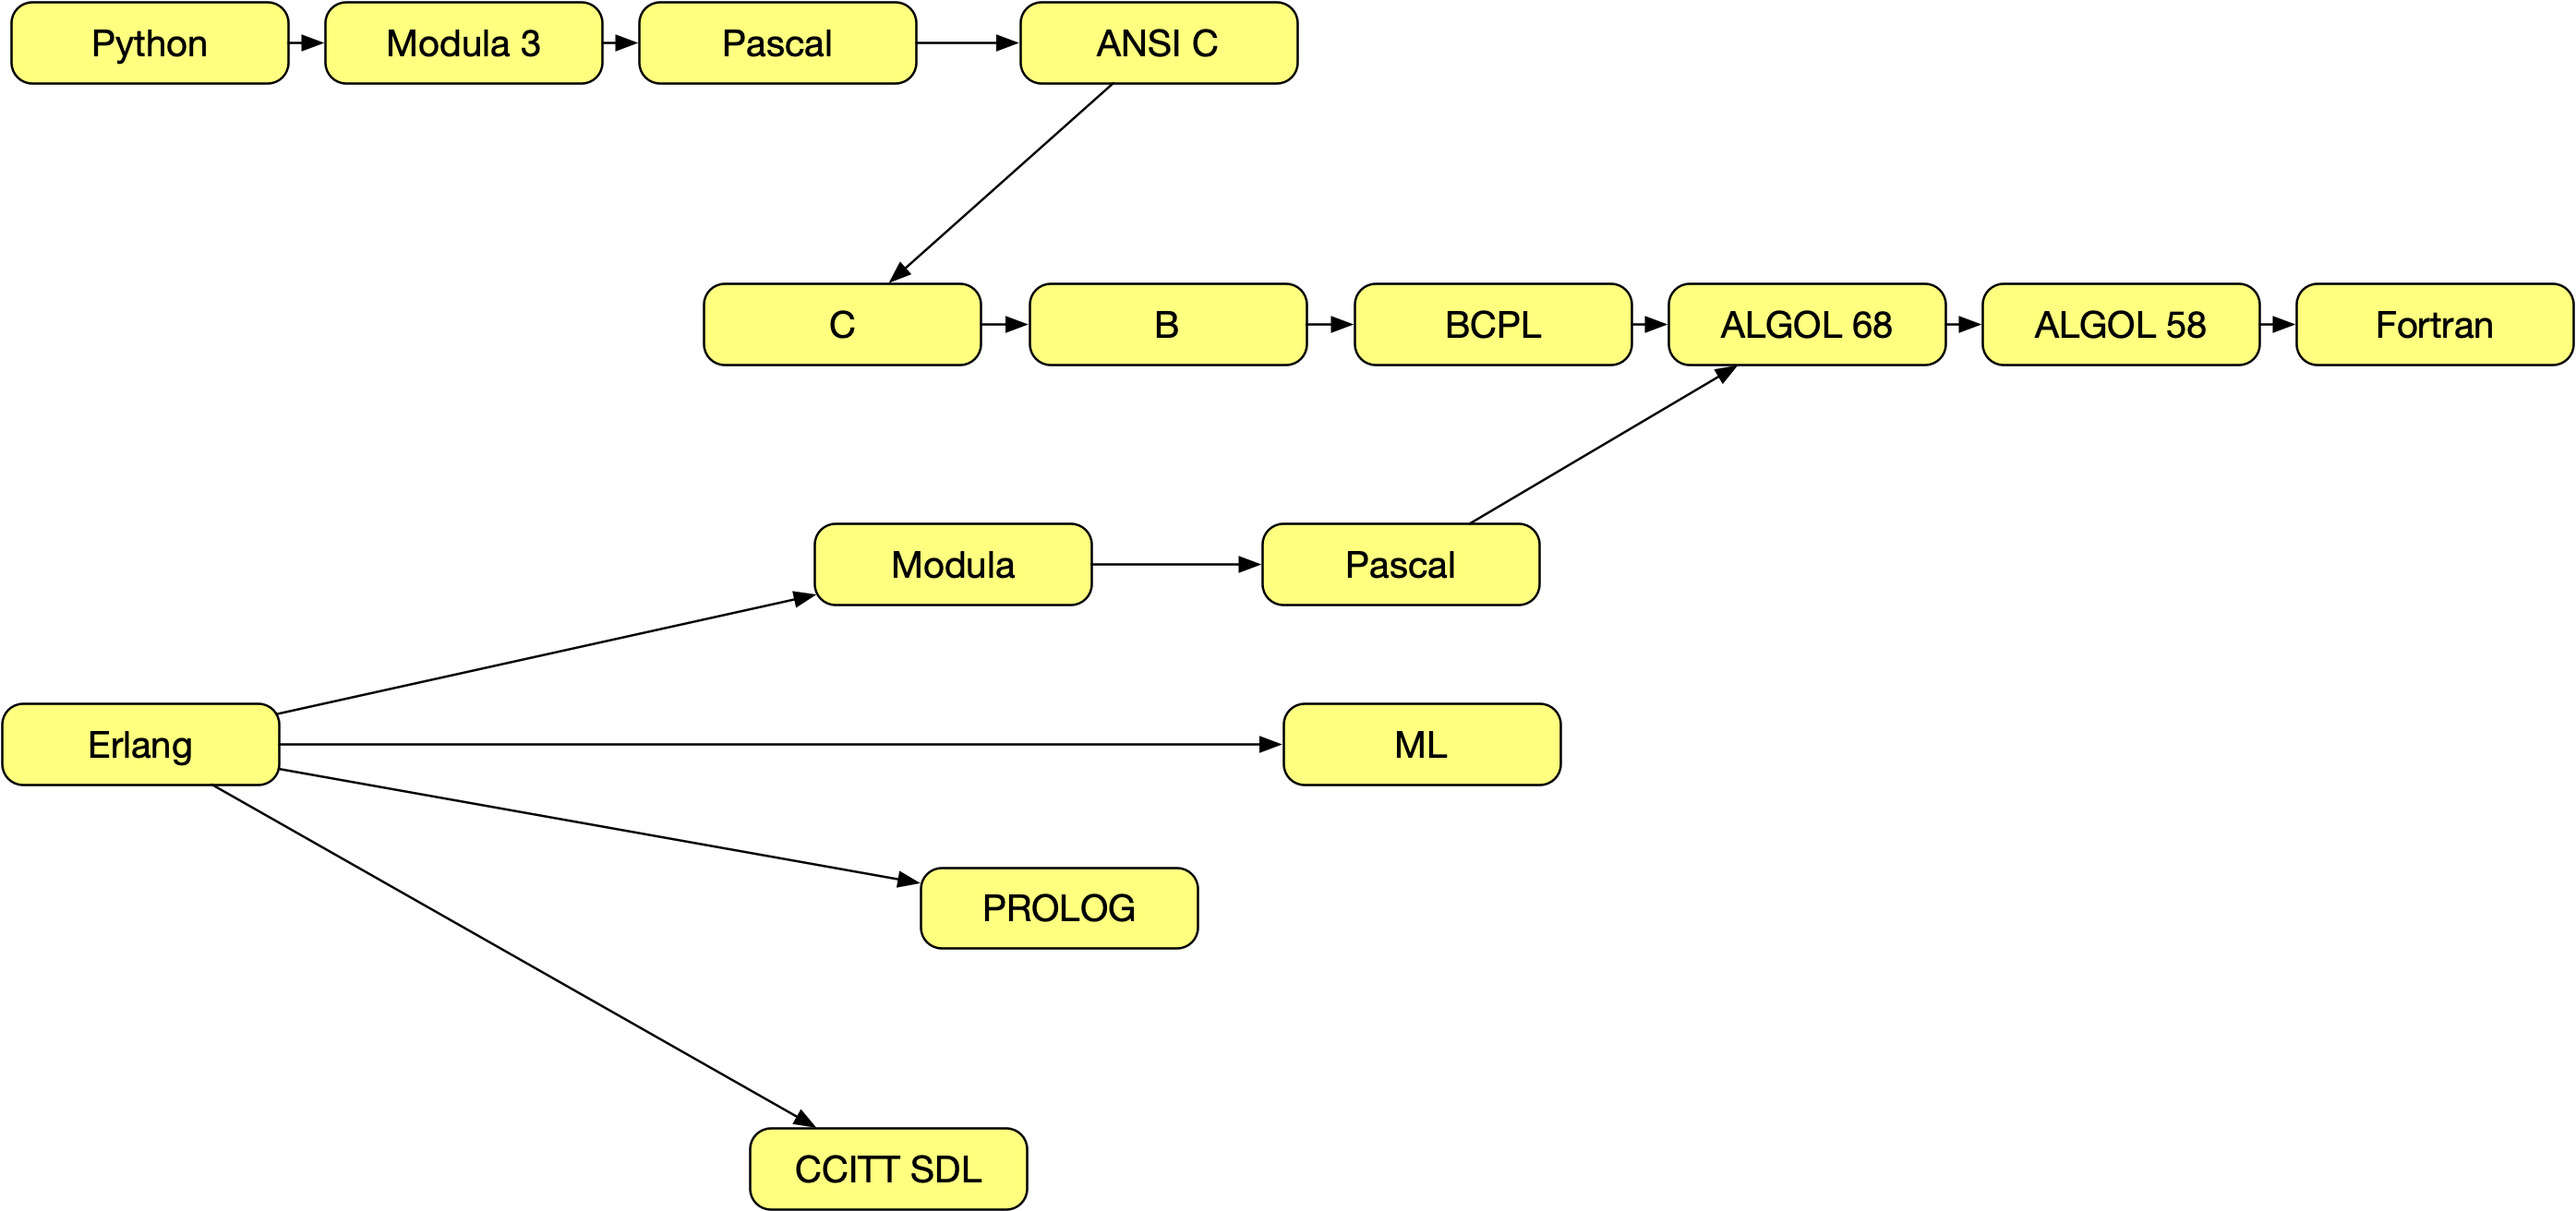
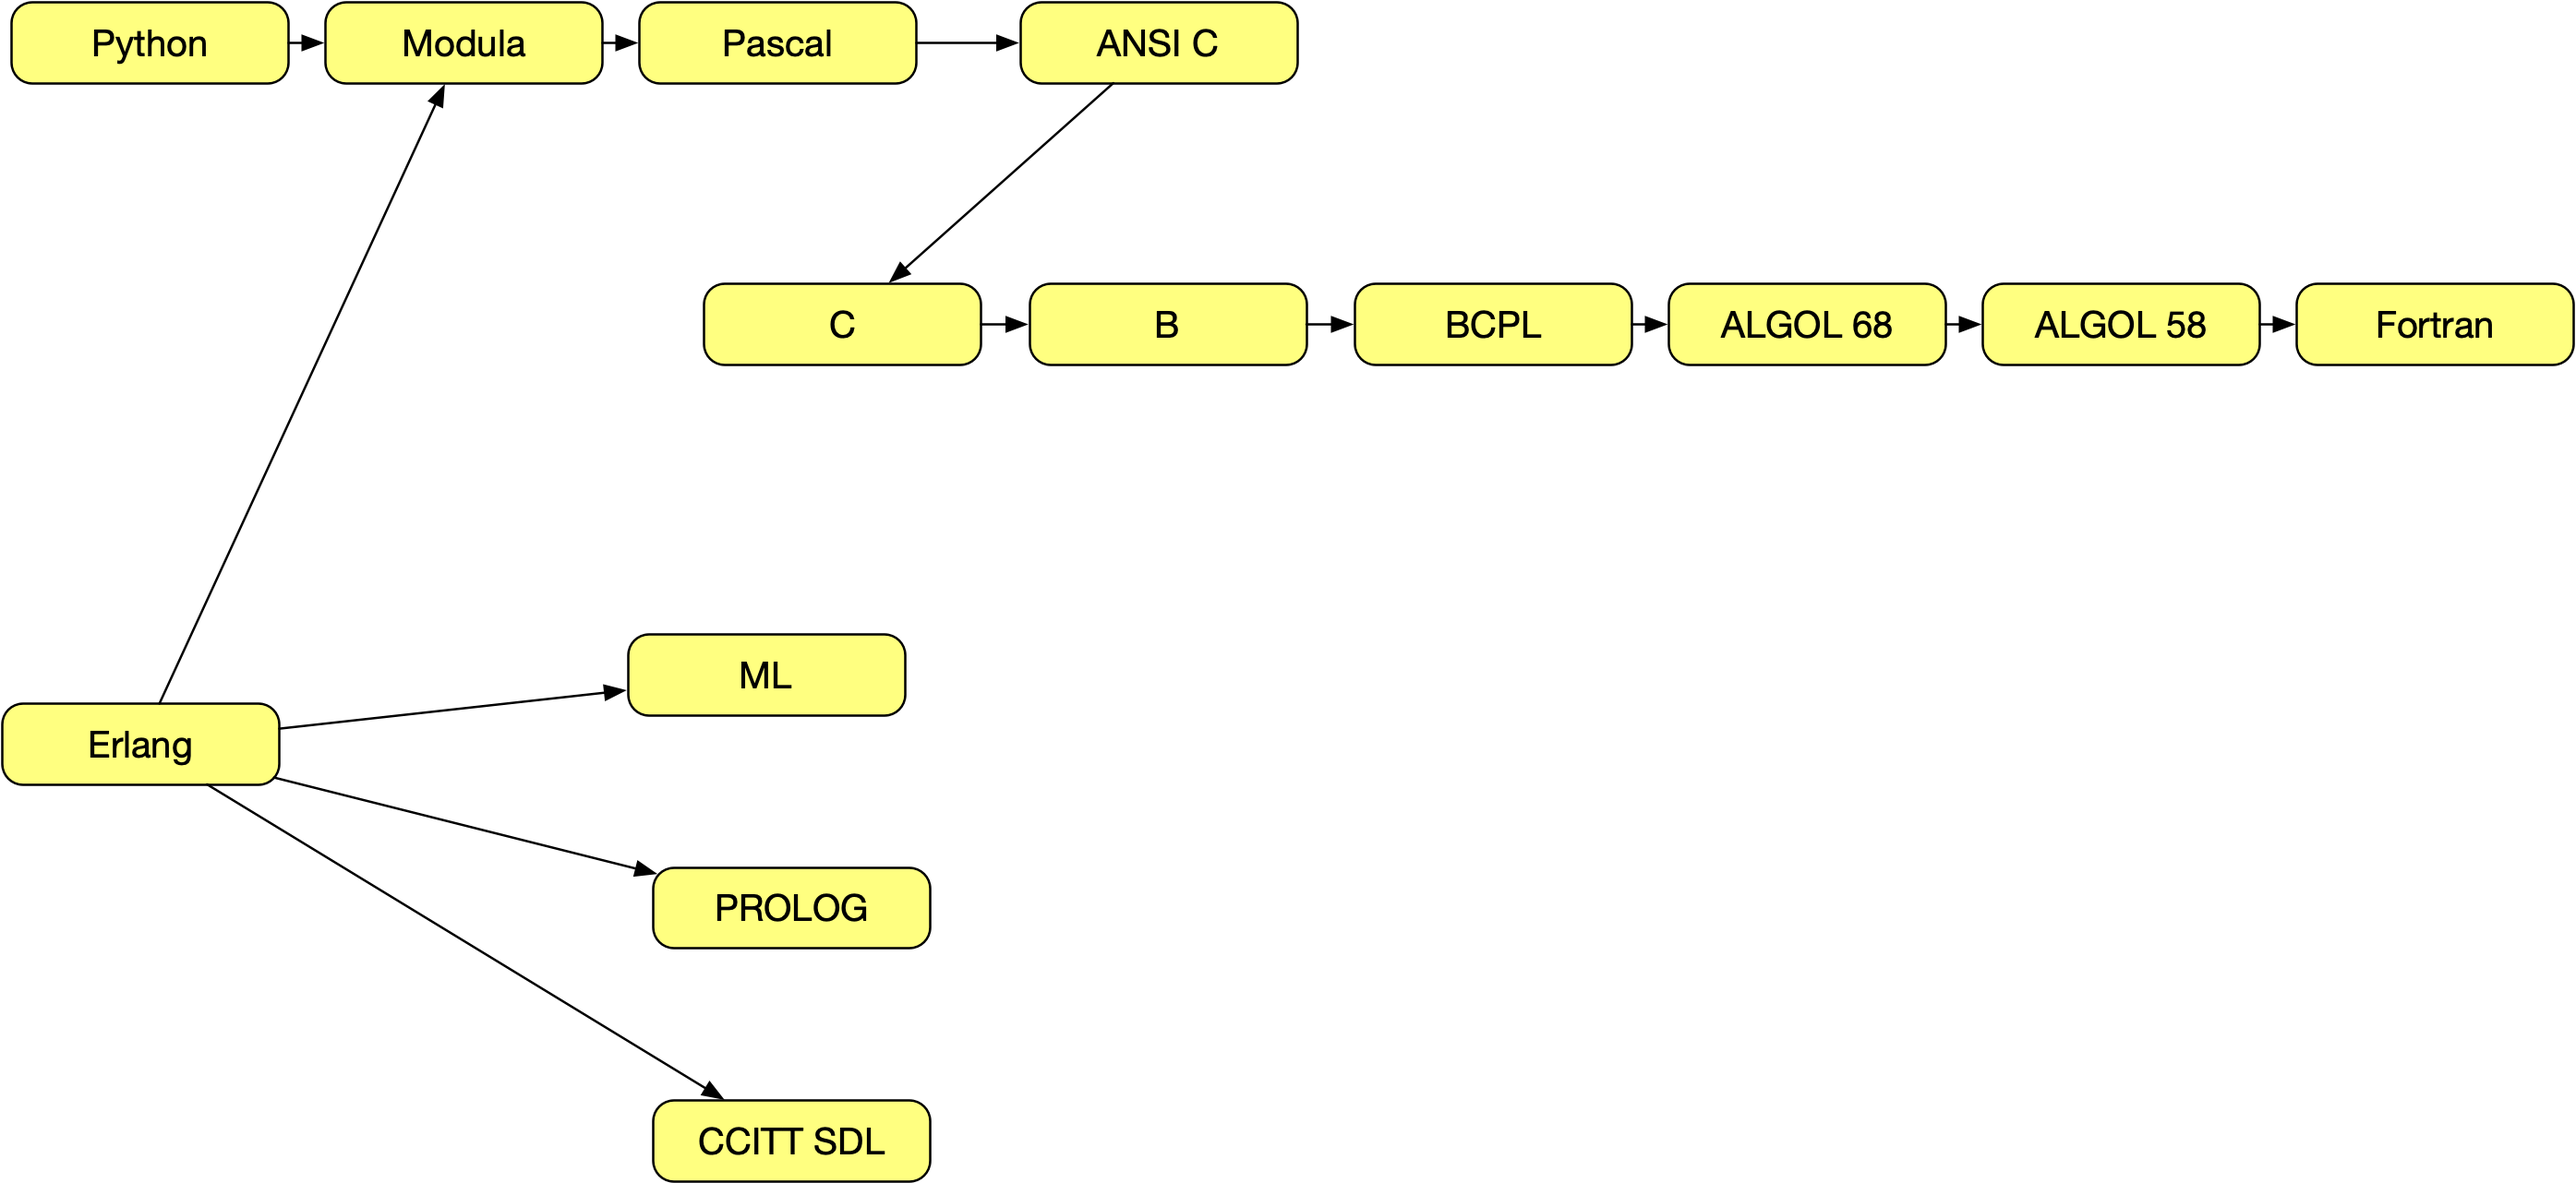
continued coversion from JS to Erlang

diff --git a/docs/week01/index.html b/docs/week01/index.html
@@ -6,7 +6,7 @@
 <head>
 	  <link rel="shortcut icon" href="https://byui-cse.github.io/Language-Courses/site/images/fav.ico" type="image/x-icon">
         <script type="text/javascript">
-                 var codeType = "JavaScript"
+                 var codeType = "Erlang"
         </script>
         <script type="text/javascript" src="https://byui-cse.github.io/Language-Courses/site/highlight.pack.js"></script>
         <link rel="stylesheet" href="https://byui-cse.github.io/Language-Courses/site/highlight_styles/xcode.css">
@@ -24,54 +24,45 @@
 </header>
 <main>
 
-	<h2>The Why of JavaScript</h2>
+	<h2>The Why of Erlang</h2>
 	<h3>Some Background</h3>
-	<p>Before and during the early 1990's, a new technology was on the rise. Servers were popping up supplying
-	documents consumed by a new type of computer application... the 'Web Browser.' The documents 
-	were written in a new language called Hyper-Text Markup Language (HTML) and the protocol used to transfer 
-	the data in the document to the web browser was called http. This combination of server, document type, 
-	and protocol was revolutionary, but there 
-	was a problem. No matter how nice you made the HTML 'pages', they were static. They were useful for displaying
-	information like the contents of books and advertising, but not usable for much more.
-       	A way was needed to make the pages act for and react to the user.</p>
+	<p>
+		The Ericsson corporation in northern Europe had a need. Their old telephone control system was going to be replaced with 
+	new hardware. They had created the new hardware, but the design and development of the controlling software collapsed. They needed to replace that 
+	development with something else, or loose a lot of money. Thankfully they had been financing Joe Armstrong and others to explore “a better way of programming telephony applications” as part of Ericsson's research lab expenditures since the late 1980's. 
+	</p>
 
 	<p>
-	In 1995, Netscape Communications, the first company to produce a marketed web browser, created  
-       	 the forerunner to what most people know today as JavaScript to help solve this problem. They initially called it Mocha. 
-	Today, if you are creating a website, you use JavaScript, the name most people use instead of the language's 
-        acutal name, ECMA Script. Today, it is not  uncommon to write both the server code  
-	producing the HMTL for the web browser as well as code that lets the web browser be active in JavaScript.
+		In the lab, Armstrong and a few others had been creating and experimenting with a new language they called <a href="https://www.erlang.org">Erlang</a>. Initially concieved as an internal Ericson language, those responsible, including Armstrong, found that the language worked very well for any system that needed massively concurrent, distributed applications with nearly 100% uptimes. In 1998, the Ericsson corporation open sourced Erlang. Since then, many companies including Google, Amazon, WhatsApp, Digital Ocean, MasterCard, Nintendo, and many others have adopted Erlang as a major part of their design and development core set of tools. 
 	</p>
-	<h3>Python and JavaScript are Cousins</h3>
-	<p>Take a look at Figure 1. It shows the ancestery of both JavaScript and Python. Since C is an ancestor of both languages
+	<p>If you want more information on the history of Erlang, Joe Armstrong wrote an <a href="https://dl.acm.org/doi/10.1145/1238844.1238850">article for the ACM</a> outlining how and why Erlang became what it is.</p>
+	<h3>Python and Erlang are Cousins</h3>
+	<p>Take a look at Figure 1. It shows the ancestery of both <a href="https://www.erlang.org">Erlang</a> and Python. Since <a href="https://en.wikipedia.org/wiki/Modula"  target="_blank">Modula</a> is an ancestor of both languages
        	you can expect to see some
-	things in Javacript that remind you of what you learned about coding in Python. C is not Python's only ancester. 
-	A very strong contributor to Python is the <a href="https://en.wikipedia.org/wiki/Modula"  target="_blank">Modula language</a>. 
-	Because of this ancestry, modules exist in Python but not in JavaScript.
-	Modulo's ranges are an important part of Python. Other language users see that power and want it too. Because of 
-	this, you can find JavaScript libraries to use in your apps that add in Modules, ranges, and other types of behaviors.
+	things in Erlang that remind you of what you learned about coding when you studied Python. An example of this is the concept of a module.
 	</p>
 <figure>
-  <img src="images/python_ecma_lang_history.png" alt="place holder">
-  <figcaption>Figure 1. - The anticedent languages for Python and ECMA Script (Grady Booch).</figcaption>
+  <img src="images/python_erlang_history.png" alt="place holder">
+  <figcaption>Figure 1. - The anticedent languages for Python and Erlang (Grady Booch, Joe Armstrong).</figcaption>
 </figure>
 
 <h2>Installations</h2>
+	<p>
+		Before doing anything else, you will need to <a href="<a href="https://www.erlang.org"> download and install the Erlang compiler and tools for your OS.</a>
+	</p>
 	<h3>The IDE</h3>
 	<p>The Integrated Development Environment (IDE) selected for this course is 
 	<a href="https://code.visualstudio.com" target="_blank">Visual Studio Code</a>. Go to the 
 	<a href="https://code.visualstudio.com" target="_blank">site for Visual Studio Code</a> download the installer for your
-	operating system. When you start the download you will be taken to a page that will help you get started. 
-	<a href="https://youtu.be/Sdg0ef2PpBw">This video</a> will help you install and get started. Since you will 
-	be working in JavaScript, <a href="https://code.visualstudio.com/docs/languages/javascript" target="_blank">this page of hints</a>
-	may be of help to you. It's OK if you don't understand everything about VSCode right off the bat. You'll 
-	gradually learn as you run into a need.</p>
-	</p>The web browser you'll be using in the class is Google Chrome. If you don't have it installed, go to the 
-	<a href="https://www.google.com/chrome/?brand=CHBD&gclid=EAIaIQobChMIoae7g5zi4gIVgrfsCh1sDgh2EAAYASAAEgI9JfD_BwE&gclsrc=aw.ds" target="_blank"> download page for Chrome</a> and install it.</p>
+	operating system. When you start the download you will be taken to a page that will help you get started. Since you will 
+	be writting in Erlang, <a href="https://marketplace.visualstudio.com/items?itemName=pgourlain.erlang" target="_blank">the VSCode plugin</a>. Ignore all of the hints, steps, and photos on the page. Those are for using a tool called rebar3 which we won't be using in this introductory class.
+	</p>
+	<p>It's OK if you don't understand everything about VSCode and this plugin right off the bat. You'll 
+	gradually learn as you run into a need. This plugin will enable color coding for Erlang in VSCode and pull up help docs for built-in Erlang functions (BIFs) when you move your mouse over a function and type Command (MacOS) or control (Windows).</p>
+	
 
 <h2>Test Your Tools</h2>
-	<p>Download and unzip this <a href="https://byui-cse.github.io/cse121b-course/week01/example_source/stepwise_debugging.zip">directory</a> that contains two files you 
-	can use to test VSCode and Chrome applications you installed on your machine. After going to where you 
+	<p>Download and unzip this <a href="https://byui-cse.github.io/cse121b-course/week01/example_source/stepwise_debugging.zip">directory</a> that contains two files you can use to test VSCode and Chrome applications you installed on your machine. After going to where you 
 	downloaded the file, select it and unzip it.</p>
 	<h3>How to Unzip</h3>
 	<ul>
@@ -90,7 +81,7 @@
 	current date and time.<p>
 	<img src="images/first_js_console.png" class="steps_image" alt="a view of the console"/>
 	<p>When you reach this point, you know your browser is setup correctly and you now know how you will use the browser's
-	console to see the results of computing using JavaScript.</p>
+	console to see the results of computing using Erlang.</p>
 	<h3>Testing Your IDE</h3>
 	<p>Run Visual Studio Code. If this is the first time you've run it you should see this.
 	</p>
@@ -100,14 +91,14 @@
 	computer's harddrive. Then select first_load_js and click the Open button in the Open dialog box. You should now 
 	see this.</p>
 	<img src="images/first_js_vsc_open_folder.png" class="steps_image" alt="view of visual studio code after directory loaded"/>
-	<p>To see your code, first click FIRST_LOAD_JS and then click learning.js. You should now see the JavaScript that 
+	<p>To see your code, first click FIRST_LOAD_JS and then click learning.js. You should now see the Erlang that 
 	was run to write the date and time to your browsers console. It should look like this.</p>
-	<img src="images/first_js_vsc_show_code.png" class="steps_image" alt="showing JavaScript in VS Code"/>
+	<img src="images/first_js_vsc_show_code.png" class="steps_image" alt="showing Erlang in VS Code"/>
 
 
 <h2>Workflow</h2>
 	<p>The work you do using these two tools will flow like this. Each time you are asked to do an assignment, you will create a directory named for the assignment. For example, if you were asked for your assignment to write code that calculated loan payments, you could create a folder called loan_pay_calc. Then, using your operating system,
-       	you would copy index.html and learn.js from first_load_js into the loan_pay_calc directory. Finally, you would open the loan_pay_calc folder in VS Code, open the learn.js file, and replace the JavaScript code in learn.js with 
+       	you would copy index.html and learn.js from first_load_js into the loan_pay_calc directory. Finally, you would open the loan_pay_calc folder in VS Code, open the learn.js file, and replace the Erlang code in learn.js with 
 	code that would calculate loan payments.</p>
 	<p>If you follow this pattern for each assignment, you will reduce your workload.</p>
 	</main>
